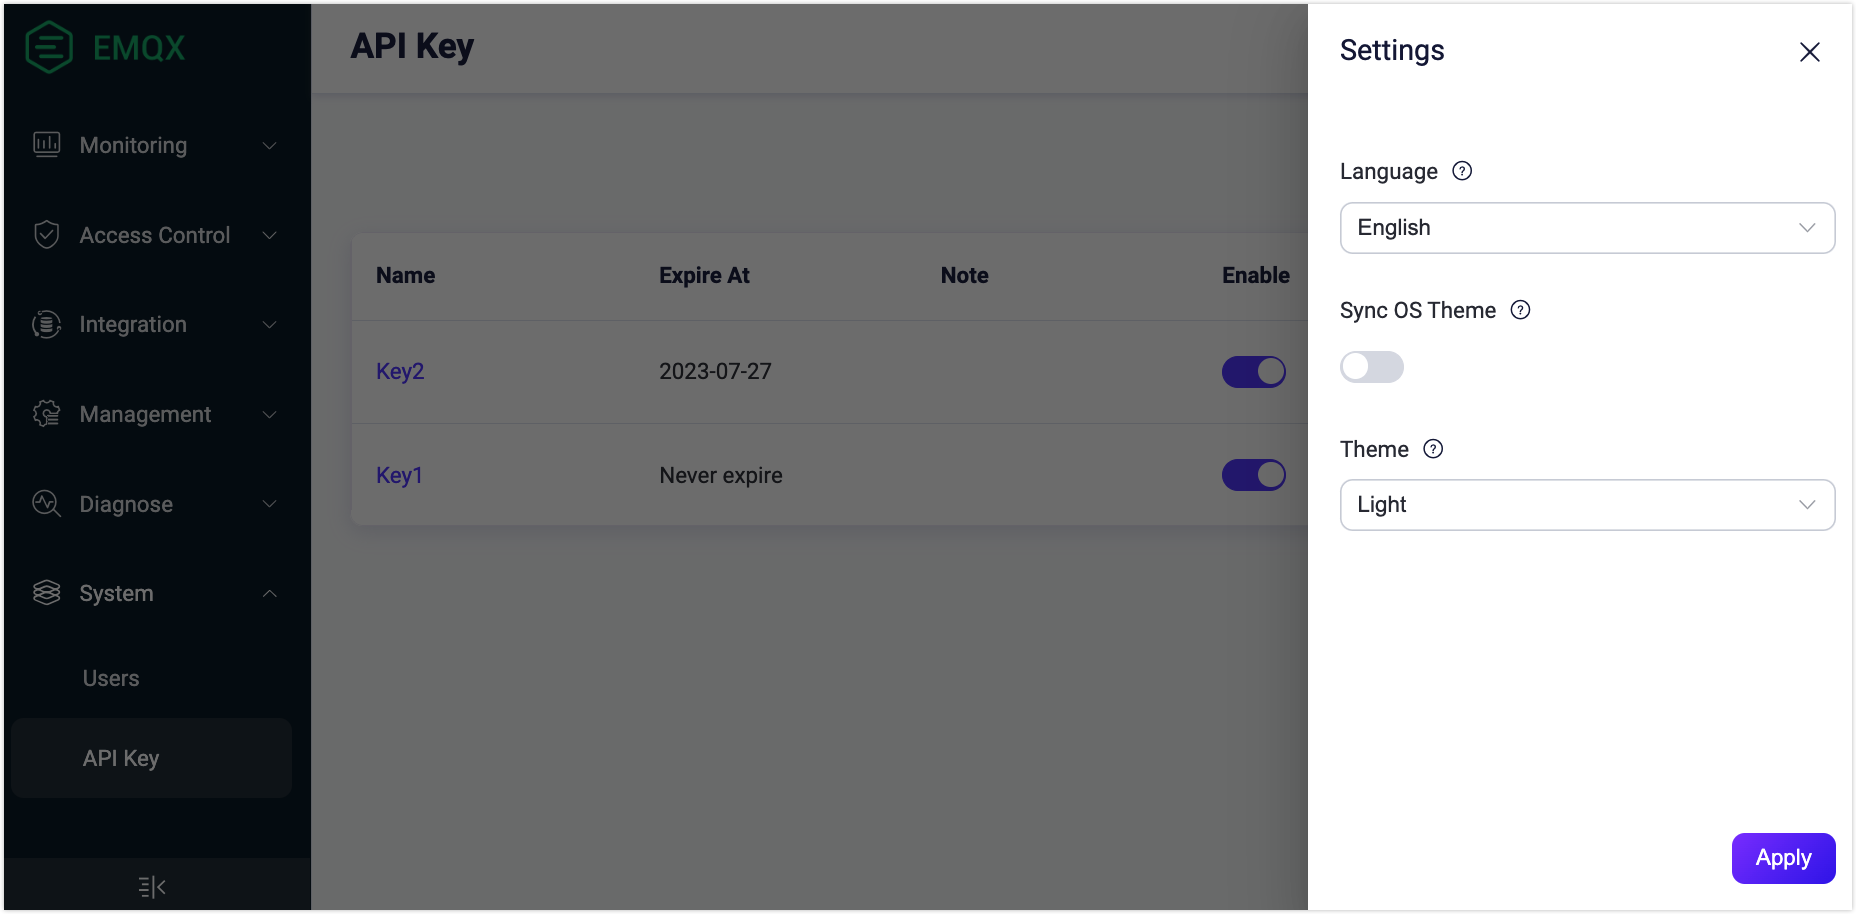
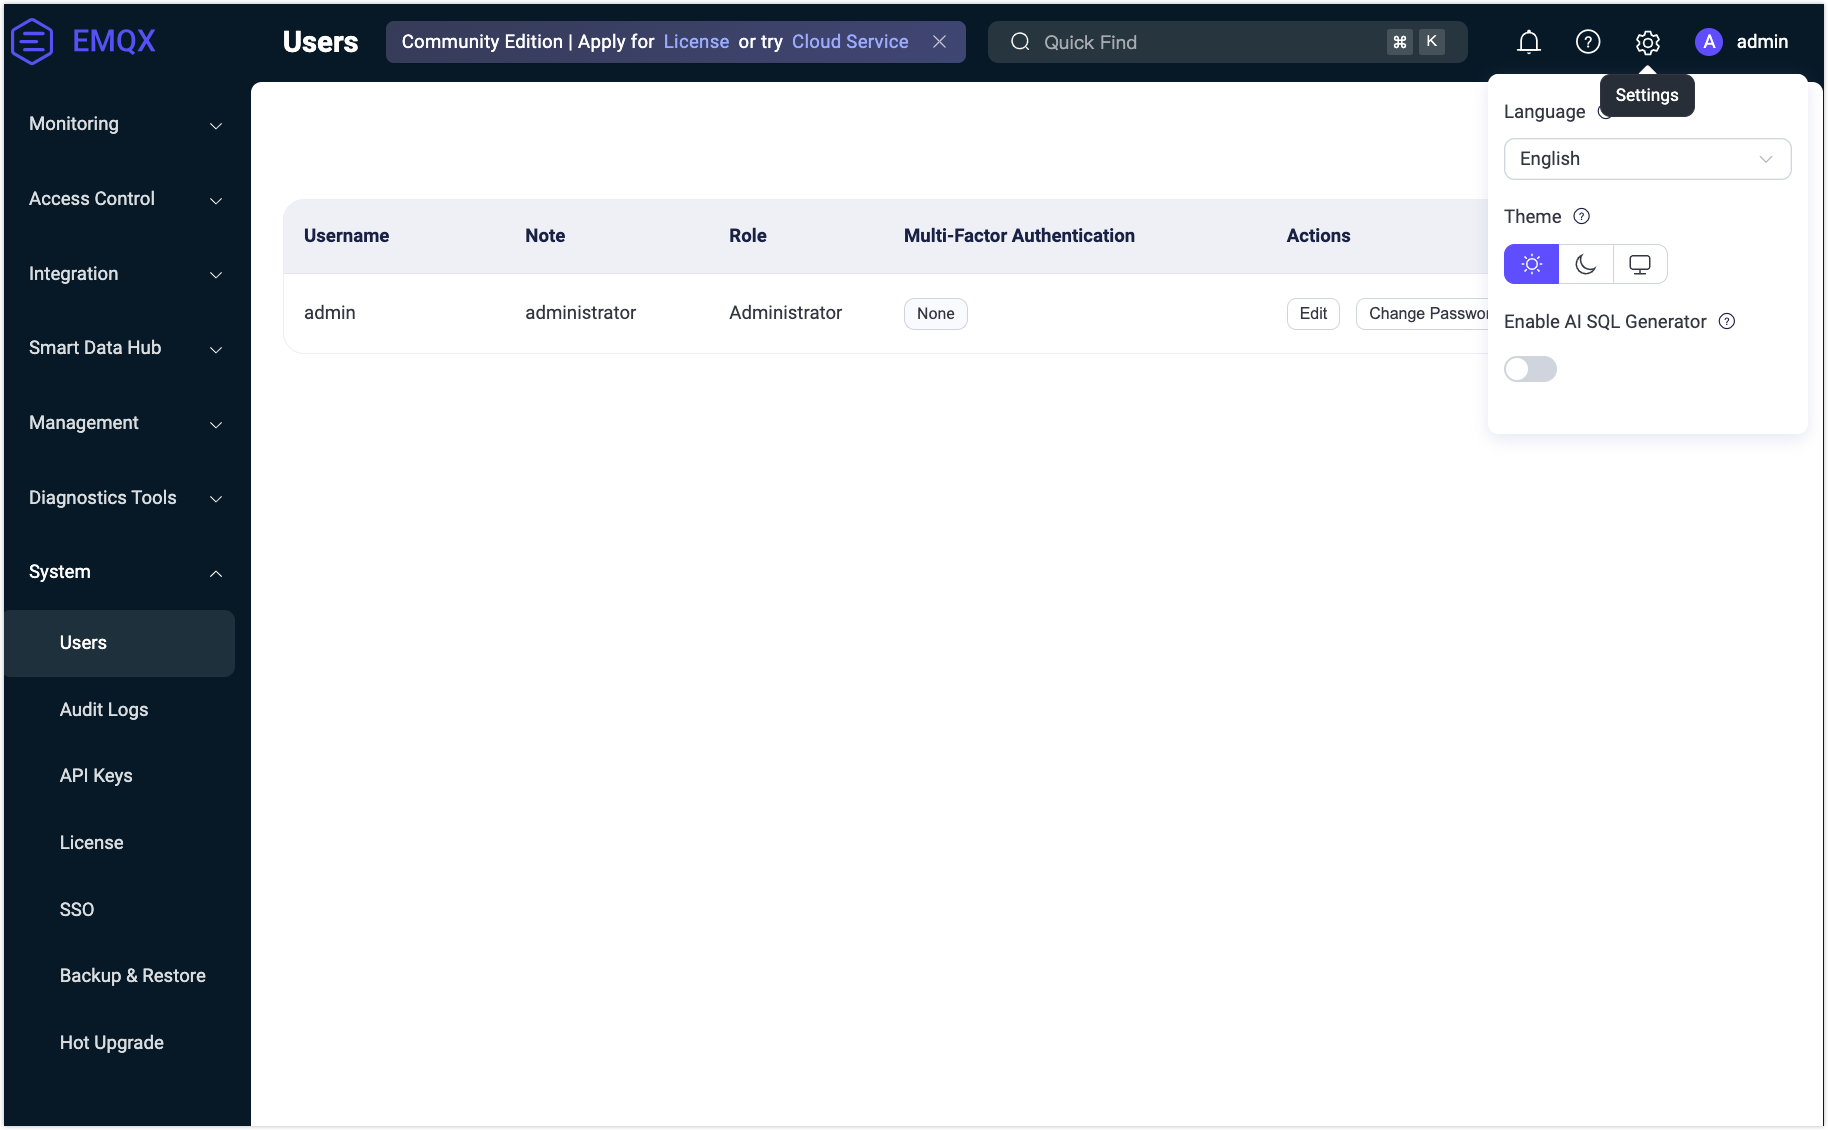
update(dashboard): Update the "System" section

diff --git a/en_US/dashboard/system.md b/en_US/dashboard/system.md
@@ -1,6 +1,6 @@
 # System
 
-The EMQX Dashboard's **System** menu includes submenus for **Users**, **API Key**, **License**, and **SSO**. Each of these submenus allows you to efficiently manage and configure user accounts, API keys, license settings, and single sign-on (SSO) configurations on their respective pages.
+The **System** menu in the EMQX Dashboard provides access to system management options such as user and role management, audit logs, API keys, licensing, SSO, data backup and restore, and general settings.
 
 ## Users
 
@@ -23,11 +23,17 @@ Currently, either of the following two predefined roles can be set for a user. Y
 
 + Viewer
 
-    Viewers can access all EMQX data and configurations, corresponding to all `GET` requests in the REST API. However, they do not have the rights to create, modify, or delete any data.
+    Viewers can access all EMQX data and configurations, corresponding to all `GET` requests in the REST API. However, they do not have the right to create, modify, or delete any data.
 
-## API Key
+## Audit Logs
 
-On the API Keys page, you can generate an API key and secret key for accessing the [HTTP API](../admin/api.md) by following the steps below.
+The **Audit Logs** page allows administrators to configure audit logging for monitoring critical operational changes within the EMQX cluster in real time.
+
+For a detailed overview of the Audit Log feature, see [Audit Log](../dashboard/audit-log.md).
+
+## API Keys
+
+On the **API Keys** page, you can generate an API key and secret key for accessing the [HTTP API](../admin/api.md) by following the steps below.
 
 1. Click the **+ Create** button in the top right corner of the page to bring up the Create API Key pop-up dialog. 
 
@@ -58,13 +64,24 @@ Click on **License** under the **System** menu on the left to access the License
 
 Click **Update License** to upload your License Key. In the **License Settings** section, you can set the high and low watermark limits for the license connection quota usage. For more information about the license, see [Work with EMQX Enterprise License](../deploy/license.md).
 
-## Settings
-
-The Settings can be accessed by clicking the settings icon in the top right corner of the page. You can change the language and theme color of the Dashboard. The theme color can be selected if you want to synchronize the OS theme. If this is enabled, the Dashboard theme will be automatically synchronized with the user's OS theme and cannot be selected manually. 
-
-<img src="./assets/settings_ee.png" alt="settings_ee" style="zoom:67%;" />
-
 ## SSO
 
-The SSO page provides settings for the administrators to configure the SSO feature for user login management. For more information about the SSO feature, see [Single Sign-On (SSO)](./sso.md).
+The **SSO** page provides settings for the administrators to configure the SSO feature for user login management. For more information about the SSO feature, see [Single Sign-On (SSO)](./sso.md).
+
+## Backup & Restore
+
+The **Backup & Restore** page provides settings for backing up your operating data and configuration files. You can perform data import and export operations on this page. For details of the Backup and Restore function, see [Backup and Restore](../operations/backup-restore.md).
+
+## Settings
+
+To access the settings, click the gear icon in the upper-right corner of the Dashboard.
+
+In the **Settings** menu, you can customize the Dashboard's language and theme:
+
+- **Language**: Choose your preferred display language.
+- **Theme**: Select between light and dark themes, or enable automatic synchronization with your operating system's theme. When sync is enabled, the theme will follow your OS settings, and manual selection will be disabled.
+
+Additionally, the Settings menu includes a toggle to enable or disable the [AI SQL Generator](../data-integration/rule-get-started.md#sql-generator) feature on the **Rules** page.
+
+<img src="./assets/settings_ee.png" alt="settings_ee" style="zoom:67%;" />
 

diff --git a/zh_CN/dashboard/system.md b/zh_CN/dashboard/system.md
@@ -1,6 +1,6 @@
 # 系统设置
 
-EMQX Dashboard 的**系统**菜单包括**用户**、**API 密钥**、**License** 和**单点登录**子菜单。每个子菜单都允许您在其各自的页面上高效管理和配置用户帐户、API 密钥、License 设置和单点登录选项。
+EMQX Dashboard 中的**系统设置** 菜单提供一系列管理功能入口，包括用户与角色管理、审计日志、API 密钥、许可证、单点登录（SSO）、数据备份与恢复以及通用设置。
 
 ## 用户
 
@@ -23,6 +23,12 @@ EMQX Dashboard 的**系统**菜单包括**用户**、**API 密钥**、**License*
 + 查看者
 
     查看者可以访问 EMQX 的所有数据和配置信息，对应 REST API 中的所有 `GET` 请求，但无权进行创建、修改和删除操作。
+
+## 审计日志
+
+**审计日志**页面允许管理员配置审计日志功能，以实时监控 EMQX 集群中的关键操作变更。
+
+有关审计日志功能的详细说明，请参见[审计日志](../dashboard/audit-log.md)。
 
 ## API 密钥
 
@@ -63,9 +69,22 @@ EMQX Dashboard 的**系统**菜单包括**用户**、**API 密钥**、**License*
 
 单点登录页面为管理员提供了用户登录管理中单点登录功能的配置。有关单点登录功能的详细介绍，参阅[单点登录](./sso.md)。
 
+## 备份与恢复
+
+**备份与恢复**页面提供用于备份运行数据和配置文件的相关设置。您可以在此页面执行数据导入和导出操作。
+
+有关备份与恢复功能的详细信息，请参见[备份与恢复](../operations/backup-restore.md)。
+
 ## 设置
 
-点击页面右上角的设置图标可以修改系统设置，包括修改 Dashboard 的语言及主题色，主题色可选择是否需要同步操作系统主题，如开启同步操作系统主题，Dashboard 主题将自动同步用户的操作系统主题，无法手动进行选择；
+要访问设置，请点击 Dashboard 右上角的齿轮图标。
+
+在**设置**菜单中，您可以自定义 Dashboard 的语言和主题样式：
+
+- **语言**：选择您偏好的显示语言。
+- **主题**：可在浅色和深色主题之间切换，或启用与操作系统主题的自动同步。当启用同步后，Dashboard 的主题将跟随操作系统设置，无法手动选择。
+
+此外，设置菜单中还包含一个开关，用于启用或禁用**规则**页面中的 [SQL 生成器](../data-integration/rule-get-started.md#sql-generator)功能。
 
 <img src="./assets/settings_ee.png" alt="settings_ee" style="zoom:67%;" />
 

diff --git a/en_US/dashboard/audit-log.md b/en_US/dashboard/audit-log.md
@@ -12,7 +12,7 @@ You can enable the Audit Log feature and adjust the configuration parameters thr
 
 ### Enable Audit Log via Dashboard
 
-You can enable the audit log and modify the configuration parameters in the Dashboard by navigating to **Management** -> **Logging** -> **Audit Log**.
+To enable the audit log and modify the configuration parameters in the Dashboard, go to **Management** -> **Logging** -> **Audit Log**, or go to **System** -> **Audit Log**.
 
 <img src="./assets/audit_log_config.png" alt="Audit Log Configuration" style="zoom:50%;" />
 
